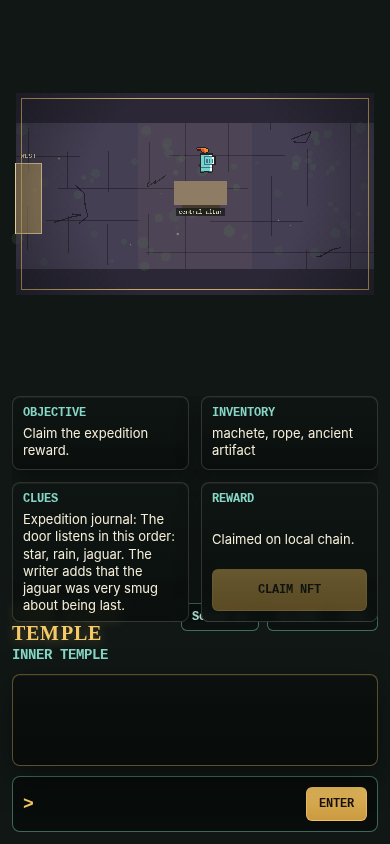
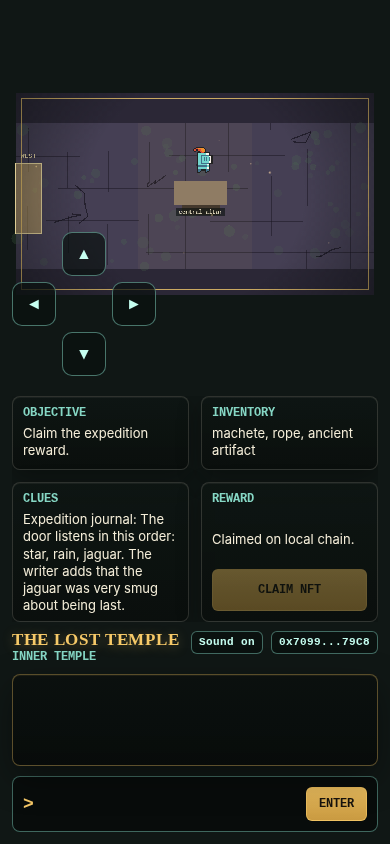
feat: on-screen directional pad so the game is playable on a phone
The readme showed a mobile screenshot for a game a phone could not finish.
currentMovement read only arrow keys and WASD, there was no pointer or touch
handler in the game scene, and since every interaction requires standing within
a proximity radius, a touch player could not reach the machete, let alone
complete the expedition.

A directional pad now appears in the compact layout, over the world view so it
covers neither the log nor the command line. It feeds the same four booleans
the keyboard does, so the server sees no difference and no protocol changed.
Presses use pointer events with capture, release on cancel, leave and lost
capture, and clear on window blur, so a finger dragged off a button cannot
leave it stuck down. Keys stay suppressed while the command line has focus;
the pad does not, since it can only be reached by touching it.

Two rendering bugs found by screenshotting rather than trusting the code:

  - The left and right arrows were drawn from a colour emoji font, because
    U+25C0 and U+25B6 have emoji presentation variants and `color` does not
    apply to them. They rendered orange while up and down rendered teal, with
    identical computed styles. Swapped for the pointer glyphs, which have no
    emoji variant.
  - At 390px the 28px title and the header controls could not share a row, so
    the title clipped to "TEMPLE" and the sound button was pushed behind the
    panels above. The compact layout now wraps that row and scales it down.
[…]

diff --git a/client/src/scenes/mainScene.ts b/client/src/scenes/mainScene.ts
@@ -61,6 +61,8 @@ export class MainScene extends Phaser.Scene {
   sound_?: SoundEngine
   muteButton?: HTMLButtonElement
   footstepElapsed = 0
+  touchControls?: HTMLDivElement
+  dpad = { up: false, down: false, left: false, right: false }
   roomDecor: Array<Phaser.GameObjects.GameObject> = []
   roomRenderKey = ''
 
@@ -236,6 +238,12 @@ export class MainScene extends Phaser.Scene {
           <button class="claim-button" type="button">Claim NFT</button>
         </div>
       </aside>
+      <div class="touch-controls">
+        <button class="dpad-button dpad-up" type="button" data-dir="up" aria-label="Move up">▲</button>
+        <button class="dpad-button dpad-left" type="button" data-dir="left" aria-label="Move left">◄</button>
+        <button class="dpad-button dpad-right" type="button" data-dir="right" aria-label="Move right">►</button>
+        <button class="dpad-button dpad-down" type="button" data-dir="down" aria-label="Move down">▼</button>
+      </div>
     `
 
     document.body.appendChild(root)
@@ -258,6 +266,9 @@ export class MainScene extends Phaser.Scene {
     this.commandInput.addEventListener('keydown', (event) => event.stopPropagation())
     this.claimButton.addEventListener('click', () => this.claimReward())
 
+    this.touchControls = root.querySelector('.touch-controls') as HTMLDivElement
+    this.bindTouchControls()
+
     this.muteButton = root.querySelector('.mute-button') as HTMLButtonElement
     this.muteButton.addEventListener('click', () => {
       this.sound_?.toggleMuted()
@@ -275,6 +286,61 @@ export class MainScene extends Phaser.Scene {
     window.addEventListener('keydown', resume, { once: false })
   }
 
+  /**
+   * On-screen directional pad. It feeds the same four booleans the keyboard does, so
+   * the server sees no difference. Without it a phone cannot move at all, and since
+   * every interaction requires standing near its object, the game was unfinishable on
+   * touch despite shipping a mobile screenshot.
+   */
+  bindTouchControls() {
+    const buttons = this.touchControls?.querySelectorAll<HTMLButtonElement>('[data-dir]')
+    if (!buttons) return
+
+    buttons.forEach((button) => {
+      const direction = button.dataset.dir as 'up' | 'down' | 'left' | 'right'
+
+      const press = (event: PointerEvent) => {
+        event.preventDefault()
+        this.dpad[direction] = true
+        button.classList.add('held')
+        // Typing focus would otherwise suppress movement, and the first press is
+        // also the gesture that unblocks audio.
+        this.commandInput?.blur()
+        this.sound_?.resume()
+        try {
+          button.setPointerCapture?.(event.pointerId)
+        } catch {
+          // Capture is a convenience for drags; an unsupported or inactive pointer id
+          // must not abort the press.
+        }
+      }
+
+      const release = (event: PointerEvent) => {
+        event.preventDefault()
+        this.dpad[direction] = false
+        button.classList.remove('held')
+      }
+
+      button.addEventListener('pointerdown', press)
+      button.addEventListener('pointerup', release)
+      button.addEventListener('pointercancel', release)
+      button.addEventListener('pointerleave', release)
+      // A dragged finger leaving the button still ends the press.
+      button.addEventListener('lostpointercapture', release)
+    })
+
+    window.addEventListener('blur', this.releaseDpad)
+  }
+
+  /** Nothing is held while the tab is in the background. */
+  releaseDpad = () => {
+    this.dpad.up = false
+    this.dpad.down = false
+    this.dpad.left = false
+    this.dpad.right = false
+    this.touchControls?.querySelectorAll('.dpad-button').forEach((button) => button.classList.remove('held'))
+  }
+
   renderMuteButton() {
     if (!this.muteButton) return
     const muted = this.sound_?.isMuted() ?? false
@@ -285,6 +351,7 @@ export class MainScene extends Phaser.Scene {
 
   destroyUi() {
     window.removeEventListener('resize', this.handleWindowResize)
+    window.removeEventListener('blur', this.releaseDpad)
     this.uiRoot?.remove()
   }
 
@@ -637,12 +704,23 @@ export class MainScene extends Phaser.Scene {
   }
 
   currentMovement() {
-    if (document.activeElement === this.commandInput) return [false, false, false, false]
+    // Keys are ignored while the command line has focus, so typing "west" does not
+    // also walk west. The pad is not affected: it is only reachable by touching it.
+    const typing = document.activeElement === this.commandInput
+    const keyed = typing
+      ? [false, false, false, false]
+      : [
+          Boolean(this.cursors?.up.isDown || this.wasd?.W?.isDown),
+          Boolean(this.cursors?.down.isDown || this.wasd?.S?.isDown),
+          Boolean(this.cursors?.left.isDown || this.wasd?.A?.isDown),
+          Boolean(this.cursors?.right.isDown || this.wasd?.D?.isDown)
+        ]
+
     return [
-      Boolean(this.cursors?.up.isDown || this.wasd?.W?.isDown),
-      Boolean(this.cursors?.down.isDown || this.wasd?.S?.isDown),
-      Boolean(this.cursors?.left.isDown || this.wasd?.A?.isDown),
-      Boolean(this.cursors?.right.isDown || this.wasd?.D?.isDown)
+      keyed[0] || this.dpad.up,
+      keyed[1] || this.dpad.down,
+      keyed[2] || this.dpad.left,
+      keyed[3] || this.dpad.right
     ]
   }
 

diff --git a/client/src/style.css b/client/src/style.css
@@ -77,6 +77,59 @@ canvas {
   font: 600 12px/1 ui-monospace, SFMono-Regular, Menlo, Consolas, monospace;
 }
 
+/* Movement pad. Hidden on desktop, where the keyboard already works, and shown in the
+   compact layout over the bottom-left of the world viewport so it never covers the log
+   or the command line. --world-height is set by resizeLayout. */
+.touch-controls {
+  display: none;
+}
+
+#adventure-ui.compact .touch-controls {
+  display: grid;
+  position: fixed;
+  left: 12px;
+  /* Sits inside the world viewport with a margin, so it never spills into the panels. */
+  top: calc(var(--world-height, 300px) - 156px);
+  z-index: 5;
+  grid-template-columns: repeat(3, 44px);
+  grid-template-rows: repeat(3, 44px);
+  grid-template-areas:
+    ".    up    ."
+    "left .     right"
+    ".    down  .";
+  gap: 6px;
+  /* Stops the browser turning a press-and-drag into a scroll or a zoom. */
+  touch-action: none;
+}
+
+.dpad-button {
+  display: flex;
+  align-items: center;
+  justify-content: center;
+  border: 1px solid rgba(134, 215, 197, 0.5);
+  border-radius: 10px;
+  background: rgba(10, 16, 15, 0.72);
+  color: #c6fff1;
+  font-size: 16px;
+  line-height: 1;
+  padding: 0;
+  touch-action: none;
+  -webkit-user-select: none;
+  user-select: none;
+  -webkit-tap-highlight-color: transparent;
+}
+
+.dpad-button.held {
+  border-color: rgba(246, 201, 104, 0.85);
+  background: rgba(246, 201, 104, 0.22);
+  color: #f6c968;
+}
+
+.dpad-up { grid-area: up; }
+.dpad-left { grid-area: left; }
+.dpad-right { grid-area: right; }
+.dpad-down { grid-area: down; }
+
 .title-row-controls {
   display: flex;
   align-items: center;
@@ -257,6 +310,29 @@ canvas {
 .claim-panel {
   display: grid;
   gap: 10px;
+}
+
+/* At phone width the 28px title and the controls cannot share one row, which clipped
+   the title and pushed the sound button behind the panels above. */
+#adventure-ui.compact .title-row {
+  flex-wrap: wrap;
+  gap: 8px;
+}
+
+#adventure-ui.compact .game-title {
+  font-size: 17px;
+  letter-spacing: 0.04em;
+}
+
+#adventure-ui.compact .room-name {
+  font-size: 12px;
+  margin-top: 2px;
+}
+
+#adventure-ui.compact .mute-button,
+#adventure-ui.compact .wallet-state {
+  padding: 5px 7px;
+  font-size: 11px;
 }
 
 #adventure-ui.compact .hud-main {

diff --git a/readme.md b/readme.md
@@ -102,7 +102,11 @@ Rooms use stable IDs rather than display strings:
 5. `temple-entrance` - enter the three-symbol sequence on the glyph controls. The order comes from the journal; the room does not give it away.
 6. `inner-temple` - recover the artifact and unlock the server-authorized reward.
 
-Movement uses WASD or arrow keys. Commands are typed into the command line and submitted with Enter. Useful commands include:
+Movement uses WASD or arrow keys. On narrow screens an on-screen directional pad
+appears over the world view and feeds the server the same four inputs the keyboard
+does, so the game is completable on a phone: walk with the pad, type with the
+on-screen keyboard. Commands are typed into the command line and submitted with
+Enter. Useful commands include:
 
 ```text
 LOOK
@@ -340,6 +344,7 @@ Player states survive server restarts. The server keeps authoritative state in a
 - The legacy Vite 2 build still emits a single large chunk, dominated by Phaser and ethers v5; a Vite major upgrade and code splitting were intentionally deferred. Web3Modal was dropped in favour of a direct injected-provider request, since only injected wallets were ever supported, cutting the gzipped bundle by roughly a third.
 - The art and audio are both fully procedural (layered scenery, particles, and lighting drawn in code; sound synthesised from oscillators and shaped noise) plus the starter knight sprite. There is no external sprite pack and no audio files, which keeps the repository asset-free but also keeps the palette simple.
 - There is no ambient room audio, only discrete event cues, and no music.
+- Touch support covers movement only. World objects are drawn but not tappable, so interaction is still typed; the directional pad plus the on-screen keyboard is what makes a phone playthrough possible. There is no tap-to-move and no pathfinding.
 - The parser is forgiving about verbs and unambiguous partial nouns, but it still has no hint system and no `EXITS`, `AGAIN`, `DROP`, `SEARCH`, or `MAP`. Ambiguous nouns are deliberately left unresolved rather than guessed, so `LOOK AT GLYPHS` with three glyphs present asks you to be specific.
 - Test coverage is deliberately concentrated on the trust boundaries: the action engine, auth, persistence, and the claim contracts. The session scene (`server/game/scenes/adventureScene.js`), the HTTP/Geckos wiring in `server/server.js`, movement collision, and the client scenes have no unit coverage; the client is exercised only by the end-to-end harness. Room data has no structural test, so a bad exit or object position would be caught by playing rather than by CI.
 
